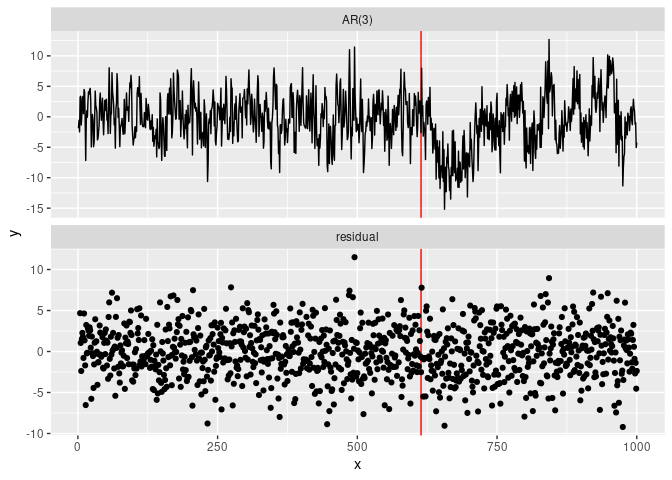
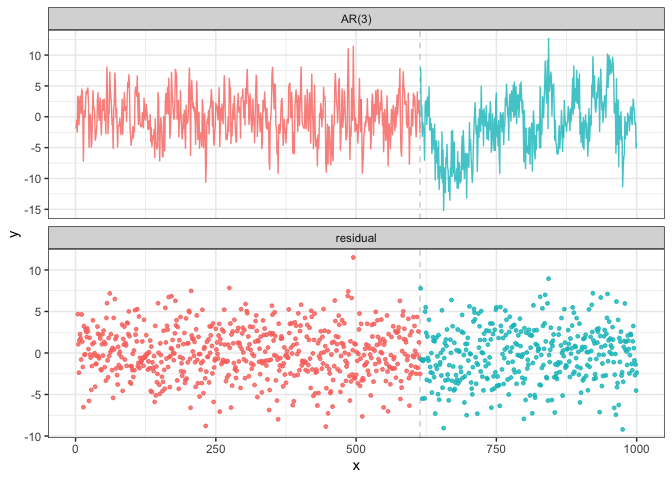
Update fastcpd 0.12.4
*   Customizable and pretty plots.

diff --git a/README.md b/README.md
@@ -253,6 +253,8 @@ expected to see the progress bar when running the code by default.
   [`variance_lm`](https://fastcpd.xingchi.li/reference/variance_lm.html)
 - Variance estimation in mean change models:
   [`variance_mean`](https://fastcpd.xingchi.li/reference/variance_mean.html)
+- Variance estimation in median change models:
+  [`variance_median`](https://fastcpd.xingchi.li/reference/variance_median.html)
 - Plot: [`plot`](https://fastcpd.xingchi.li/reference/plot.html)
 - Print: [`print`](https://fastcpd.xingchi.li/reference/print.html)
 - Show: [`show`](https://fastcpd.xingchi.li/reference/show.html)

diff --git a/cran-comments.md b/cran-comments.md
@@ -1,5 +1,9 @@
 ## Updates since last CRAN release (0.12.1)
 
+### fastcpd 0.12.4
+
+*   Customizable and pretty plots.
+
 ### fastcpd 0.12.3
 
 *   Remove `pruning` parameter and replace with `convexity_coef = -Inf`.

diff --git a/NEWS.md b/NEWS.md
@@ -1,3 +1,7 @@
+# fastcpd 0.12.4
+
+*   Customizable and pretty plots.
+
 # fastcpd 0.12.3
 
 *   Remove `pruning` parameter and replace with `convexity_coef = -Inf`.
